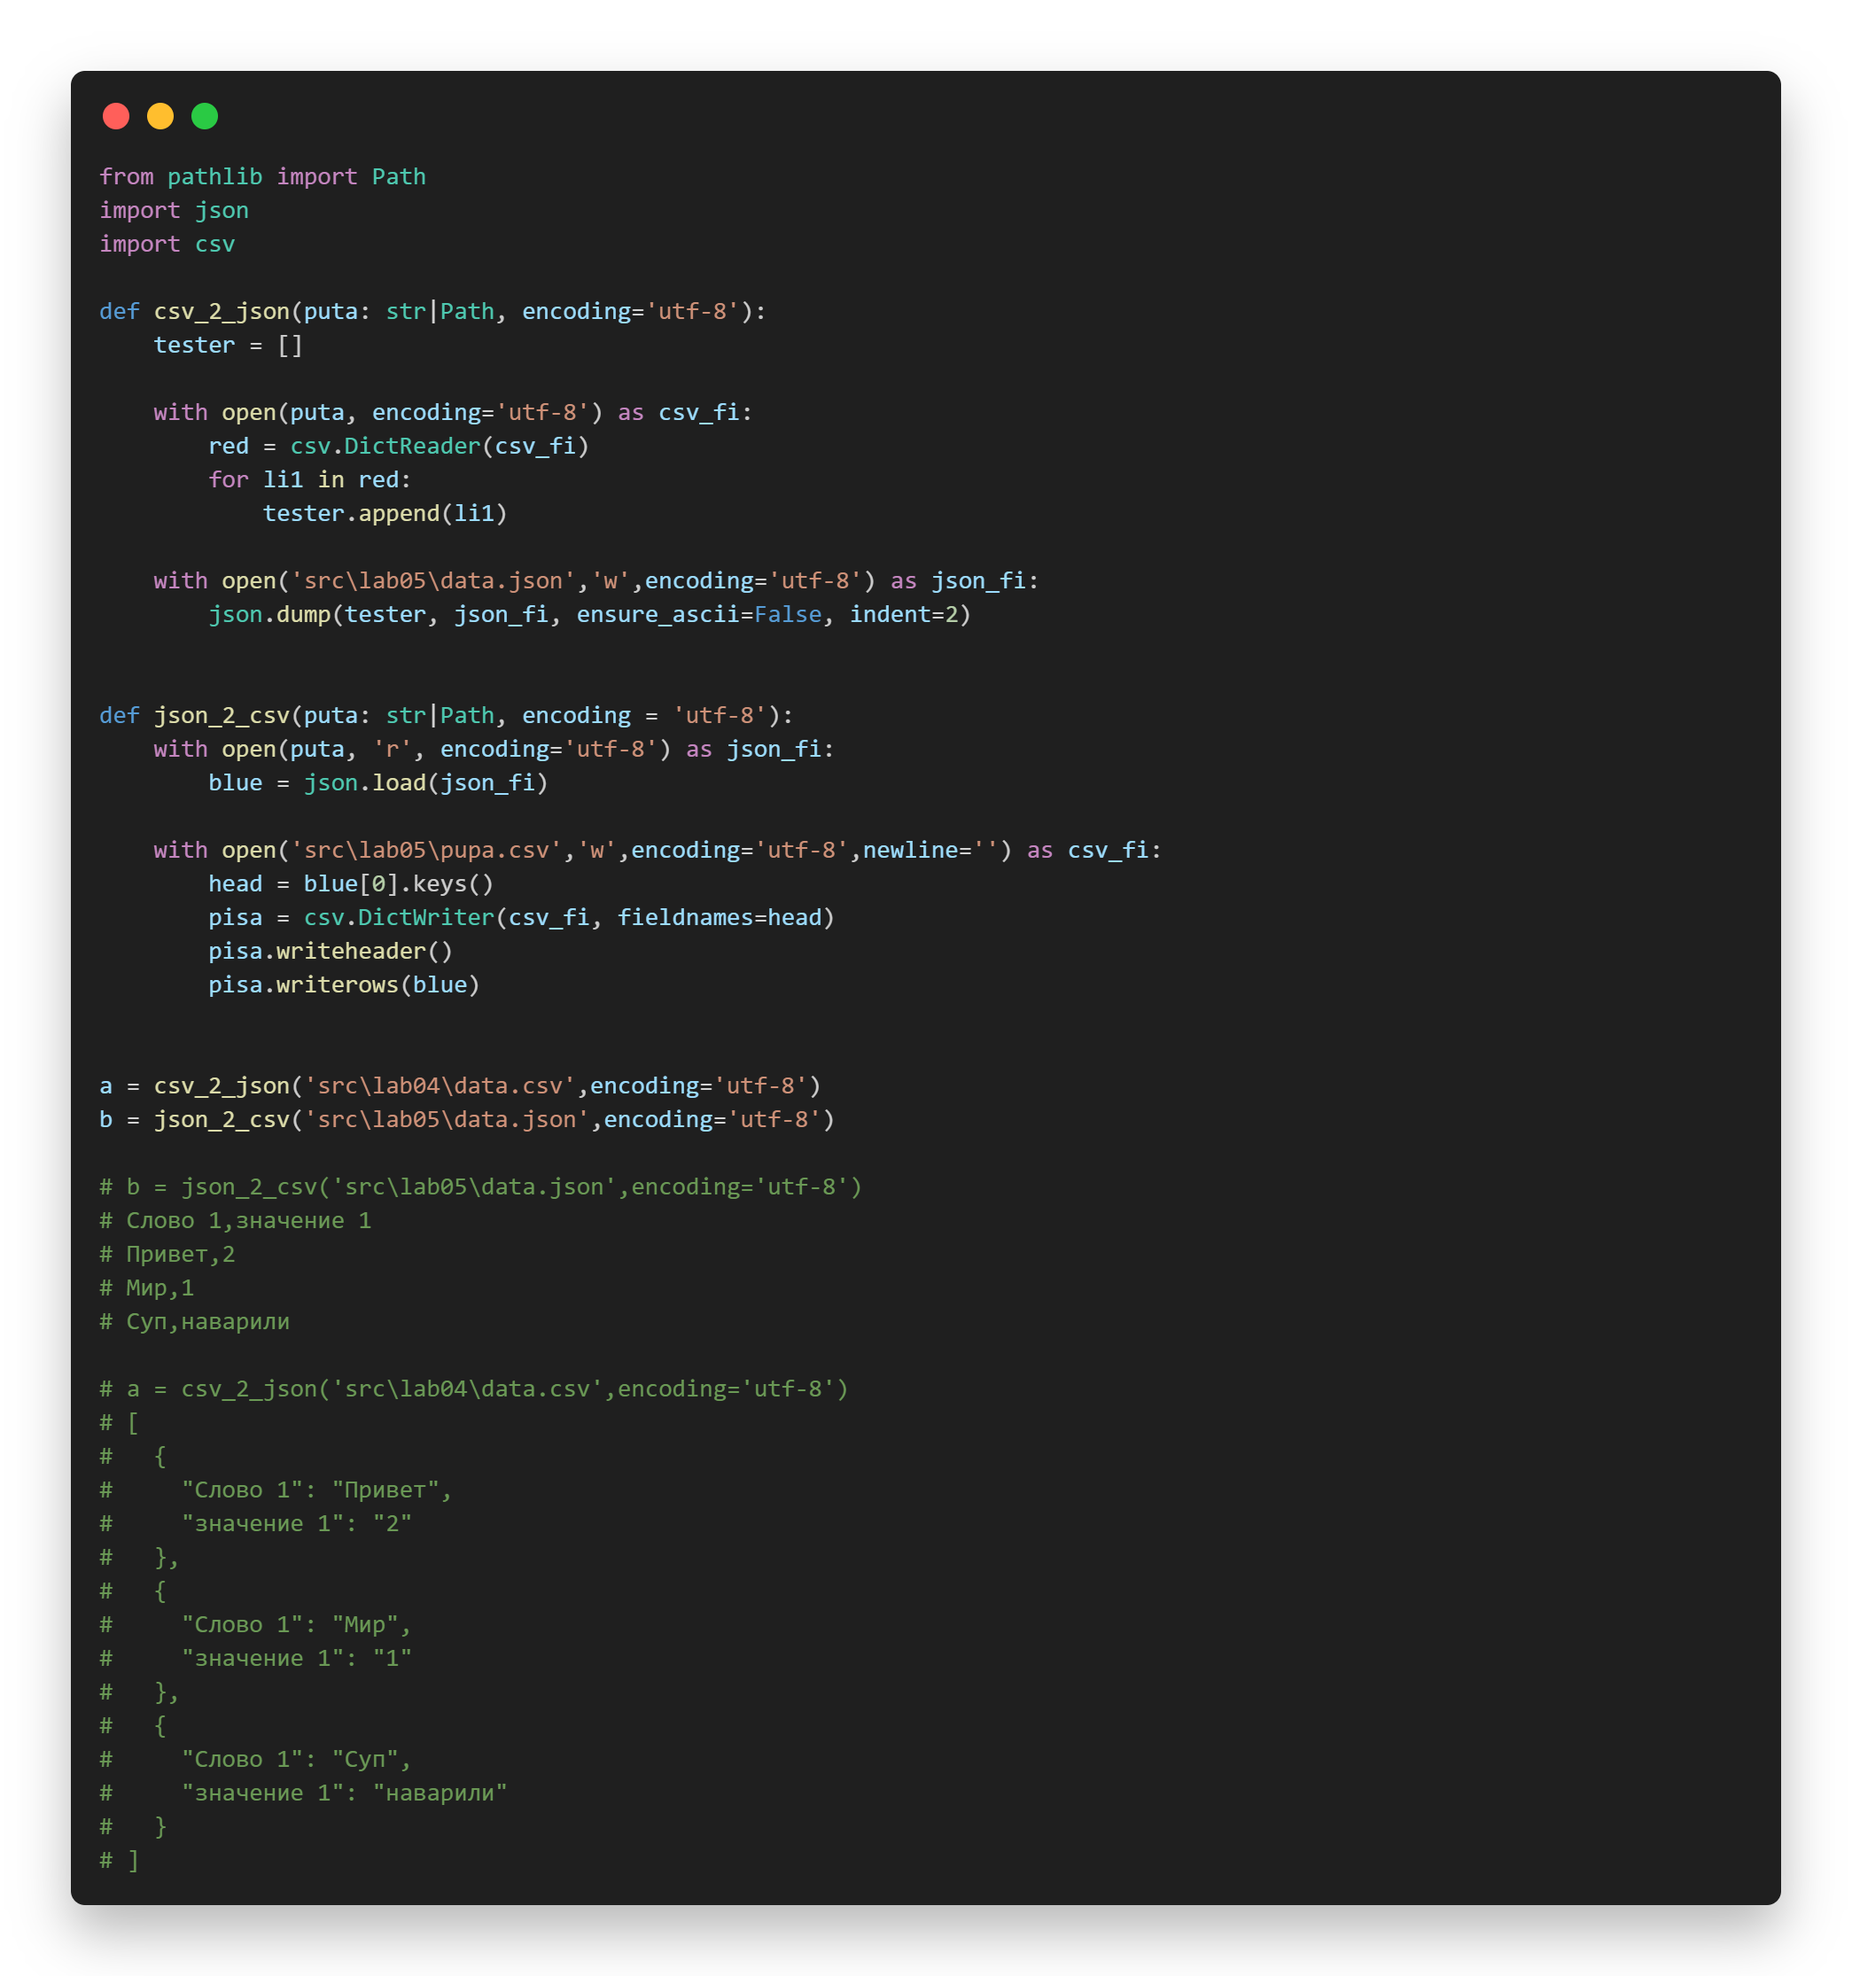
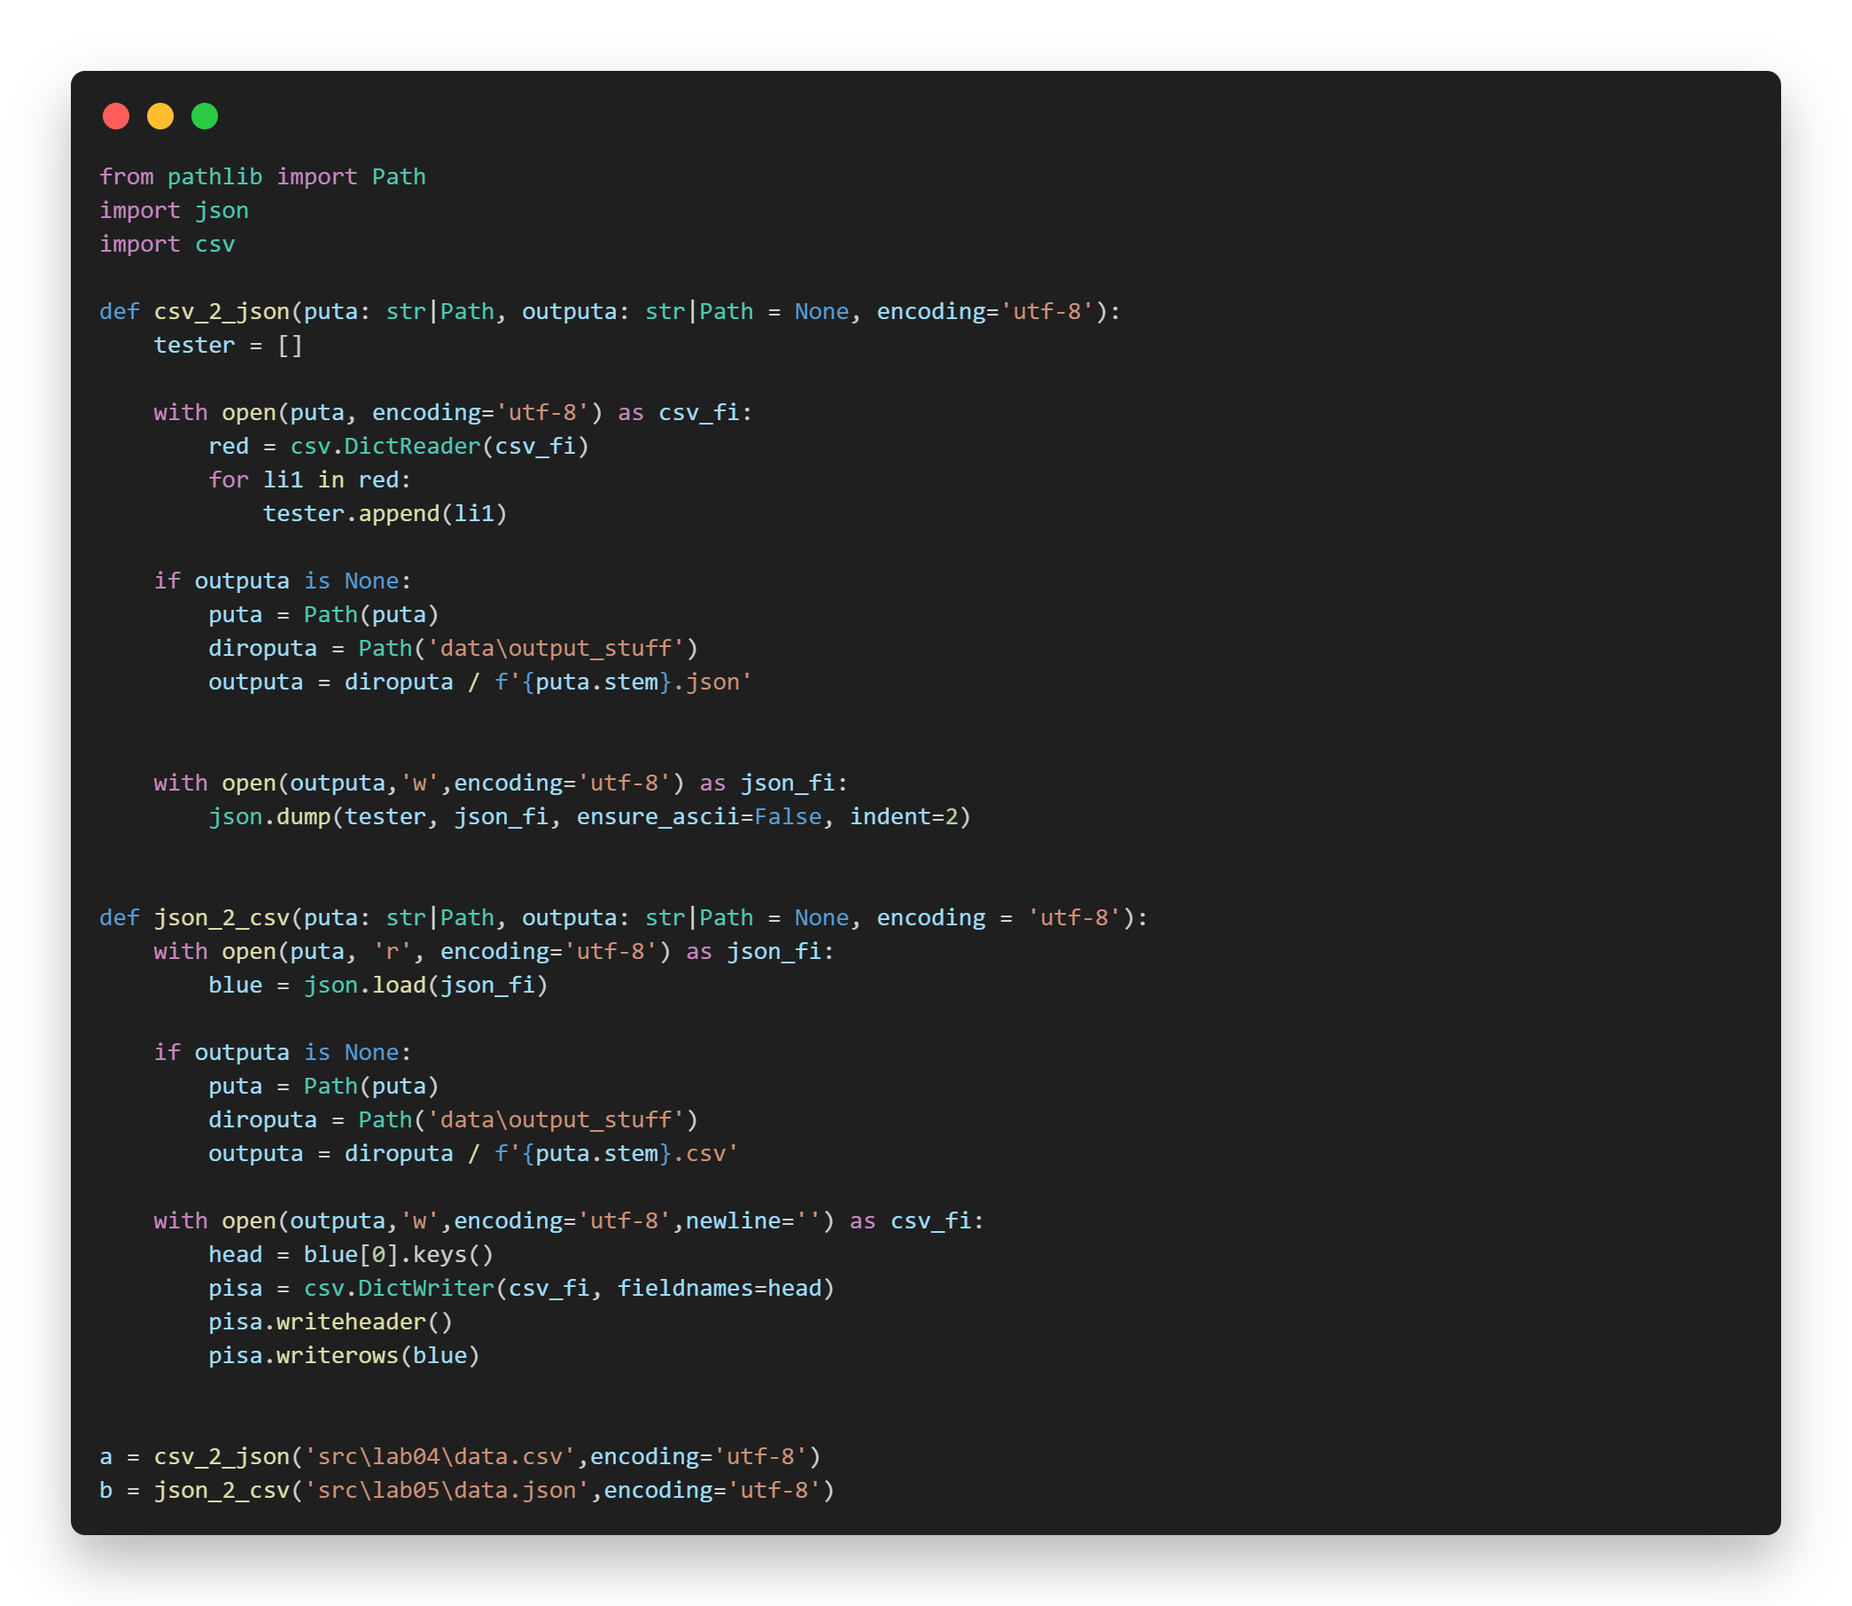
brokenglass

diff --git a/src/lab05/csv_xlsx.py b/src/lab05/csv_xlsx.py
@@ -2,17 +2,23 @@ from pathlib import Path
 import csv 
 from openpyxl import Workbook
 
-def csv_2_xlsx(puta: str|Path, encoding='utf-8'):
+def csv_2_xlsx(puta: str|Path, outputa: str|Path = None, encoding='utf-8'):
     nig = Workbook()
     lis = nig.active
     lis.title = 'Девятихвостый Лис'
+
+    if outputa is None:
+        puta = Path(puta)
+        diroputa = Path('data\output_stuff')
+        outputa = diroputa / f'{puta.stem}.xlsx'
+
 
     with open(puta,'r',encoding='utf-8') as csv_fi:
         red = csv.reader(csv_fi)
         for nu_st, lin in enumerate(red,1):
             for nu_cmn, val in enumerate(lin,1):
                 lis.cell(row=nu_st,column=nu_cmn,value=val)
-    nig.save('src\lab05\ltabla.xlsx')  
+    nig.save(outputa)  
 
 
 an = csv_2_xlsx('src\lab05\pupa.csv',encoding='utf-8') 
